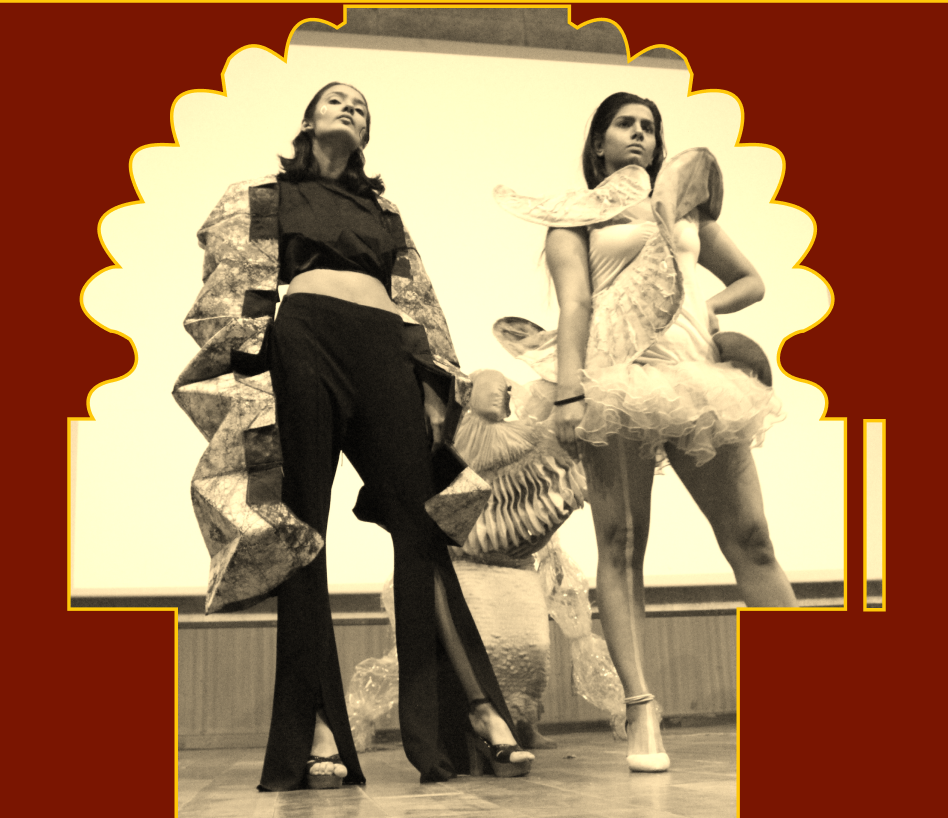
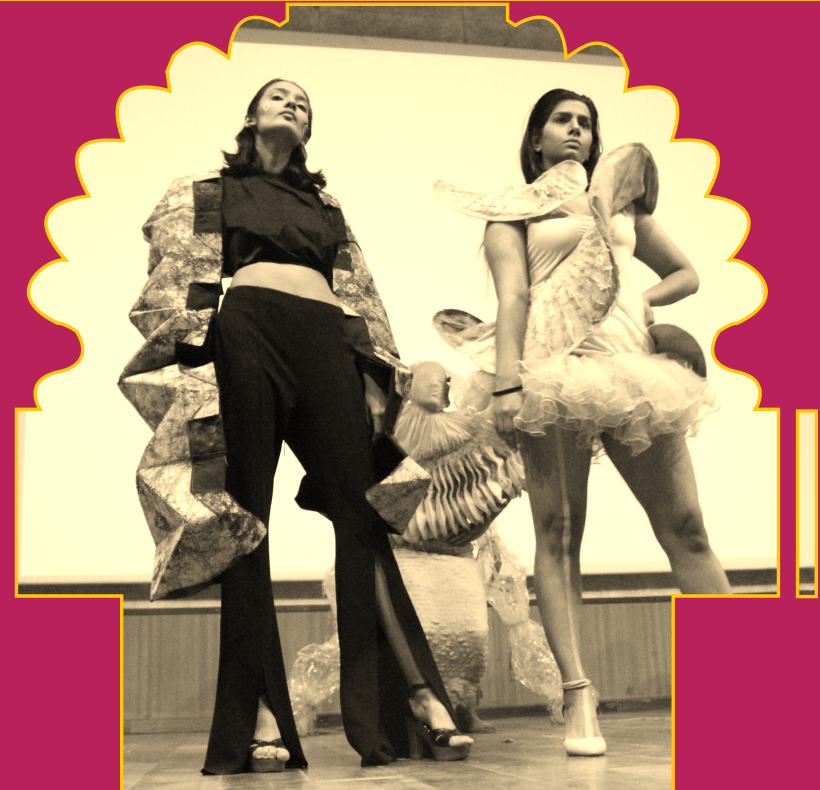
event expand working

diff --git a/components/Event.jsx b/components/Event.jsx
@@ -1,33 +1,69 @@
+import { transform } from 'framer-motion'
 import React,{useState} from 'react'
-import Image from 'next/image';
 
-function Event({name, tagline, knowmore, bg, image, align, height, key}) {
-  const alignVal = (key+1)%2==0?"left":"right"
+function Event({name, tagline, knowmore, bg, image, align, key}) {
+
+  let alignVal = align%2===0?"left":"right"
   const[isExpanded,setExpanded] = useState(false)
-  console.log(name)
-  return (
-    <div className=" row w-screen h-80"  style={{backgroundColor: bg, border: '2px solid #FFC809 '} } >
-          <img className={`ml-10 mr-20 h-80 float-${alignVal}`} src= {image}  alt="Logo"  style={{
-                  float: alignVal,
-          }} />
+  let buttonText= "Know More"
+  let height= 300
+  let heightImg= 250
 
-          <div className="ml-20 mt-20"  >
-            <div className="col-2 text-6xl mt-9">
-                  {name}
-            </div>
-            <div className="mt-1 col-2 text-3xl  ">
-            {tagline}
-            </div>
-                <div className="btn-group"
-                    role="group"
-                    aria-label="Basic mixed styles example"
-                    style={{color: bg }}>
-                    <button className="font-bold text-4xs mt-4 bg-[#C18C6C] rounded-lg p-2"
-                            type="button"
-                            onClick={() => setExpanded(prev=>!prev)}>
-                      Know More
-                    </button>  
-                </div>
+  function setButtonText(prev){
+    buttonText= prev == true? "Show Less":"Know More";
+  }
+  function setHeight(prev){
+    height= prev == true? 350:300;
+  }
+
+  return (
+    <div  className= { ` w-screen transition-timing-function-[ease-in] 
+                          ${(isExpanded)
+                              ? "translate-y-[0.1vw] duration-[1000ms]"
+                              : "translate-y-[0.1vw] duration-[1000ms]"
+                            } transform transition-all `}
+          style={{backgroundColor: bg, border: '2px solid #FFC809 ',  height: (isExpanded)? 360 :height     }} >  
+      <img className={`mt-5   ${(isExpanded)
+                  ? "translate-y-[0.1vw] duration-[1000ms]"
+                  : "translate-y-[0.1vw] duration-[1000ms]"
+                  } transform transition-all    
+              ${ (alignVal==="left") ? "ml-20 mr-10" : "mr-40" } `}
+            src= {image}  alt="image"  style={{
+                                          float: alignVal,
+                                          height: (isExpanded)? 300 :heightImg   }} />
+
+      <div className={`ml-20 mt-20 ${(isExpanded) 
+                                    ? "" : "translate-y-[0.1vw] duration-[1000ms]" }`}>
+        <div className= {`translate-y-[0.1 vw] duration-[1200ms]
+        ${(isExpanded)
+            ? "text-6xl mt-9" : "text-3xl mt-10" } `}>
+          {name} </div>
+
+        <div className=
+        {` translate-y-[0.1vw] duration-[1000ms] ${(isExpanded)
+                                              ? "text-2xl " : "text-1xl " }`} >
+          {tagline}
+        </div>
+
+        <div className= "font-italic mt-1 mr-40 col-2 text-4xs transition-delay-[10s] translate-y-[1vw] duration-[100ms] " >
+        {(isExpanded)? knowmore:""} 
+        </div>
+      
+          <div className="btn" style={{ color: bg }}>
+              <button className={` font-bold text-[2xs] mt-4 bg-[#F9F9F9] rounded-lg p-1 
+                      ${(isExpanded)
+                        ? "translate-y-[1vw] duration-[1000ms]"
+                        : "translate-y-[-1vw] duration-[1000ms]"
+                      }  transform transition-all
+                      ${(isExpanded)
+                        ? "text-2xs " : "text-xs "} ` } 
+                        type="button"
+                        onClick= { () => { setExpanded(prev => !prev)}}  >
+                      {setButtonText(isExpanded)}
+                      {setHeight(isExpanded)}
+                      {buttonText}
+              </button>  
+          </div>
           </div>    
     </div>
   )

diff --git a/pages/Events.jsx b/pages/Events.jsx
@@ -7,47 +7,42 @@ function Events() {
         name: "Fashion",
         tagline: "Join the fashion elite at our exclusive fest events.",
         knowmore: "Details of events of events of events of events of events of events of events of events of events of events of events of events of events.",
-        bg: "#7A1501",
+        bg: "#B8215A",
         image: "/images/fashion.jpg",
-        align: 1,
-        height: 350
-
+        align:0
     },
     {
         name: "Quizzing",
         tagline: "Are you ready to face off against other trivia enthusiasts? Join us!",
         knowmore: "Details of events of events of events of events of events of events of events of events of events of events of events of events of events.",
-        bg: "#00381F",
+        bg: "#EE2D69",
         image: "/images/quizzing.jpg",
-        align: 0,
-        height: 350
-
+        align:1
     },
     {
         name: "Dance",
         tagline: "Experience the thrill of the dance floor at our fest event.",
         knowmore: "Details of events of events of events of events of events of events of events of events of events of events of events of events of events of events of events of events.",
-        bg: "#121D21",
+        bg: "#00B9AD",
         image: "/images/dance.jpg",
-        align: 1,
-        height: 350
-
+        align:0
     }
   ]
-  
-
   return (
   
-    <div className="z-0 font-mulish flex flex-col text-xl pt-[5vmax] overflow-clip  text-[#C18C6C] " >
+    <div className="z-0 font-mulish flex flex-col text-xl pt-[5vmax] overflow-clip  text-[#F9F9F9] " >
       {eventList.map((event, i)=>(
+        <main>
              <Event name={event.name}
                     tagline={event.tagline}
                     knowmore={event.knowmore}
                     bg={event.bg}
                     image={event.image}
                     align={event.align}
-                    height ={event.height}
                     key={i}/>
+              <img className='w-screen mb-[-0.1vw] mt-[0.1vw]' src="/images/tealborder.png" 
+                    style={{  width: "100%" }}  />
+        </main>
       ))}
     </div>
     
